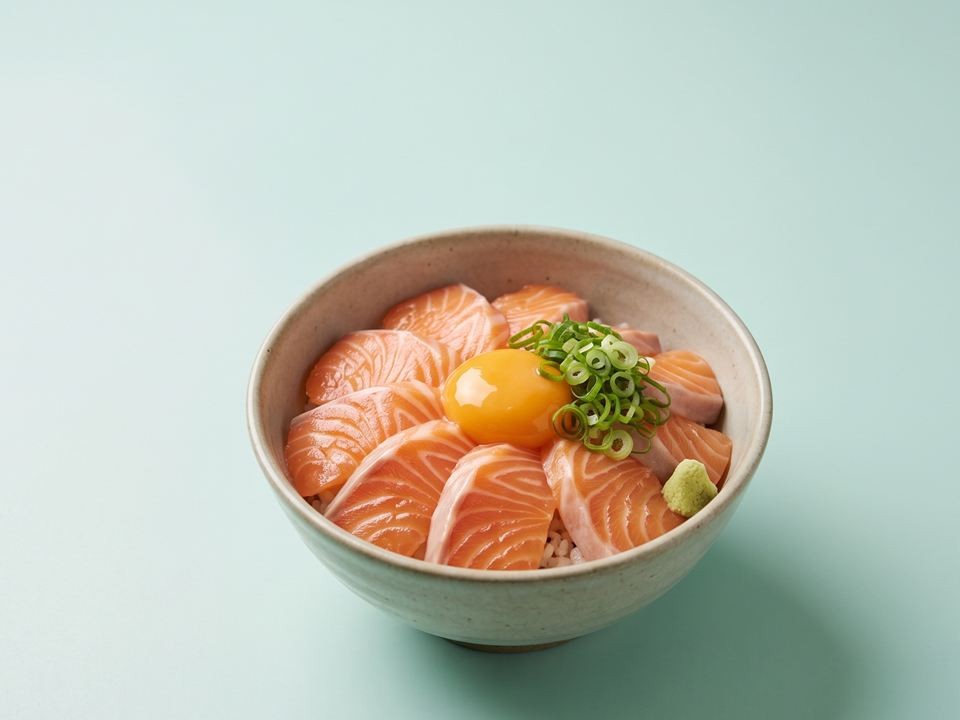
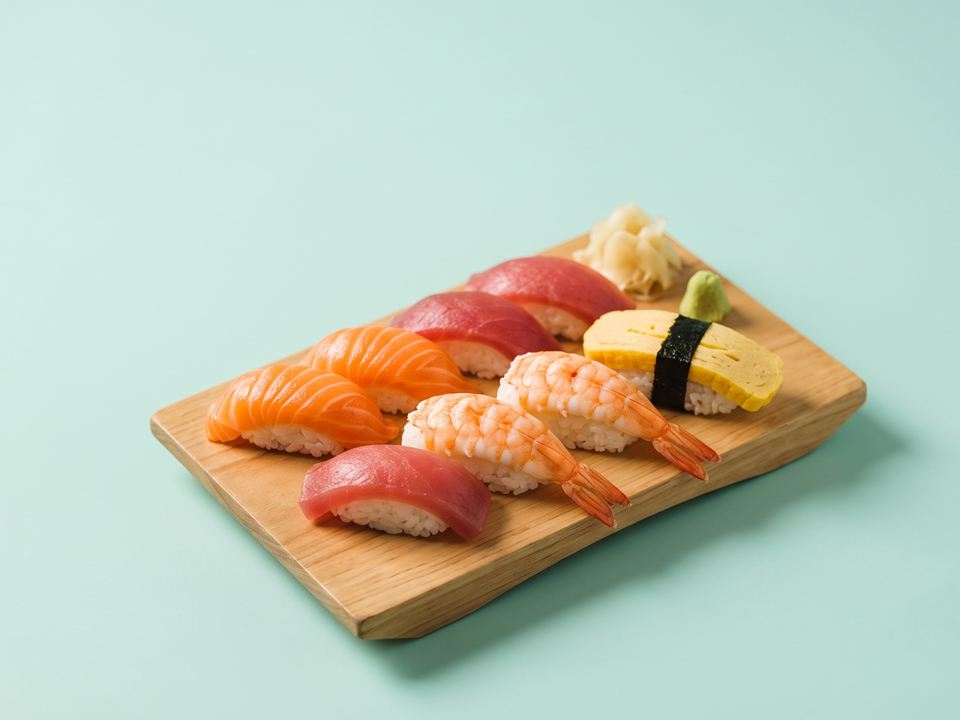
AI 예시 사진 19장 + 대표 메뉴 매칭, 로고 logo_final 색, 로고 정렬, 상대 경로
- 사진 추가: 삼겹살(kr-3) 족발(kr-4) 해물파전(kr-5) 냉면(kr-6) 피자(we-3) 샐러드(we-4) 치킨(etc-3), jp-2 → 모둠 초밥
- 매칭: 대표 메뉴(추천 메뉴 + 식당 이름)에 맞는 사진을 식당 종류와 상관없이 먼저 고르고, 없으면 종류별 사진 중 하나
  (치킨카레 → 카레, 그릴치킨 샐러드 → 샐러드, 돈가스김밥 → 김밥, 막국수 → 냉면, 훠궈 → 국물 요리 등)
- 로고: 팀 확정 logo_final 색으로 핀 주황 #E94102 (logo.svg · logo-512.png 다시 만듦)
- 헤더: 로고와 제목 간격 8 → 5px, '삼슐랭 가이드'를 1px 당겨 아래 줄과 시작선 맞춤
- images/ · vendor/ 경로를 상대 경로로 → index.html을 파일로 열어도 사진이 보임 (/api/config는 그대로)

diff --git a/index.html b/index.html
@@ -15,7 +15,7 @@
 <link rel="stylesheet" href="https://cdn.jsdelivr.net/gh/orioncactus/pretendard@v1.3.9/dist/web/variable/pretendardvariable-dynamic-subset.css">
 <!-- 앱 아이콘: 아래 로고(#i-logo)와 같은 그림을 스크립트가 채워 넣어요 -->
 <link rel="icon" id="favicon" type="image/svg+xml">
-<link rel="apple-touch-icon" href="/images/logo-512.png">
+<link rel="apple-touch-icon" href="images/logo-512.png">
 <style>
 /* ============================================================
    ① TOKENS — design.md 2장 그대로. 단일 라이트 테마(크림 바탕)로 고정.
@@ -271,8 +271,7 @@ a.btn{text-decoration:none}
    ============================================================ */
 :root{
   --ink:#37352F; --sun:#FFB600; --hl:#FFE08A; --peach:#FBEBDD; --butter:#FDF1D3; --sec:#C25E0A;
-  --font-display:var(--font-sans);
-  --color-text:var(--ink); --color-bg:#FFFBF6; --color-border:#EBE2D8;
+  --font-display:var(--font-sans);  --color-text:var(--ink); --color-bg:#FFFBF6; --color-border:#EBE2D8;
   --color-brand-600:#C8460A; --color-brand-700:#A3380A;
   --shadow-card:none; --shadow-pop:3px 3px 0 var(--ink);
 }
@@ -305,10 +304,11 @@ a.btn{text-decoration:none}
 .region-chip{border-color:#DDD2C7}
 
 /* 로고 */
-.logo{display:inline-flex;align-items:center;gap:8px;font:800 20px/1 var(--font-display);letter-spacing:-.03em;color:var(--ink);text-decoration:none;background:none;border:0;padding:0}
+.logo{display:inline-flex;align-items:center;gap:5px;font:800 20px/1 var(--font-display);letter-spacing:-.03em;color:var(--ink);text-decoration:none;background:none;border:0;padding:0}
 .logo svg{width:40px;height:40px;flex:none}
 .logo em{font-style:normal;color:#D04A02}
 .logo__txt{display:flex;flex-direction:column;gap:3px}
+.logo__txt > span:first-child{margin-left:-1px} /* 큰 글씨 '삼'의 첫 획이 비스듬해 오른쪽으로 보여서, 아래 줄과 시작선을 맞춰요 */
 .logo small{font:600 11px/1 var(--font-sans);color:var(--color-text-sub);letter-spacing:.02em}
 
 /* 홈: 바로가기 타일 */
@@ -407,11 +407,11 @@ body.has-nav .toast{bottom:calc(84px + env(safe-area-inset-bottom,0px))}
 <symbol id="i-check-circle" viewBox="0 0 24 24"><circle cx="12" cy="12" r="10"/><path d="m9 12 2 2 4-4"/></symbol>
 <symbol id="i-alert-circle" viewBox="0 0 24 24"><circle cx="12" cy="12" r="10"/><path d="M12 8v4M12 16h.01"/></symbol>
 <symbol id="i-info" viewBox="0 0 24 24"><circle cx="12" cy="12" r="10"/><path d="M12 16v-4M12 8h.01"/></symbol>
-<!-- 삼슐랭 로고 (10/07 팀 시안): 별이 든 지도 핀. 핀 주황 = 삼일PwC 대표 주황 #D04A02 (시안 원본 #E94102에서 맞춤)
+<!-- 삼슐랭 로고 (10/07 팀 확정 logo_final): 별이 든 지도 핀. 핀 주황 #E94102 · 테두리 #451003 · 별 #FED20D
      원본 파일: images/logo.svg (홈 화면 아이콘 PNG: images/logo-512.png). 같은 그림을 탭 아이콘(favicon)에도 써요 -->
 <symbol id="i-logo" viewBox="5 4 54 54">
   <g stroke="#451003" stroke-linejoin="round">
-    <path d="M32 55C24 45.5 14.6 34 14.6 25.2a17.4 17.4 0 0 1 34.8 0c0 8.8-9.4 20.3-17.4 29.8z" fill="#D04A02" stroke-width="2.3"/>
+    <path d="M32 55C24 45.5 14.6 34 14.6 25.2a17.4 17.4 0 0 1 34.8 0c0 8.8-9.4 20.3-17.4 29.8z" fill="#E94102" stroke-width="2.3"/>
     <circle cx="32" cy="25.5" r="10.8" fill="#FFFDF8" stroke-width="2"/>
     <polygon transform="translate(32 26.1) scale(1.46)" points="0,-5 1.32,-1.82 4.76,-1.55 2.14,.7 2.94,4.05 0,2.25 -2.94,4.05 -2.14,.7 -4.76,-1.55 -1.32,-1.82" fill="#FED20D" stroke-width="1.25"/>
   </g>
@@ -433,7 +433,7 @@ body.has-nav .toast{bottom:calc(84px + env(safe-area-inset-bottom,0px))}
 <div class="toast" id="toast" role="status" aria-live="polite"><svg class="ico ico--16"><use href="#i-check-circle"/></svg><span id="toast-msg"></span></div>
 <p class="sr-only" id="live" aria-live="polite"></p>
 
-<script src="/vendor/supabase.js"></script>
+<script src="vendor/supabase.js"></script>
 <script>
 "use strict";
 /* ============================================================
@@ -668,23 +668,45 @@ function shrinkPhoto(file, sizes){
     img.src = url;
   });
 }
-/* 사진이 없을 때: 식당 종류별 AI 생성 예시 사진(images/food).
-   메뉴·이름에 맞는 사진을 먼저 고르고, 없으면 그 종류 사진 중 하나(같은 식당은 늘 같은 사진).
-   사진을 더 만들면 파일을 넣고 아래 목록에 [파일 이름, 맞는 메뉴]만 추가하면 돼요 */
+/* 사진이 없을 때: AI 생성 예시 사진(images/food, 19장).
+   ① 대표 메뉴(추천 메뉴 + 식당 이름)에 맞는 사진을 식당 종류와 상관없이 먼저 골라요 — 위에서부터 먼저 맞는 것
+   ② 맞는 게 없으면 식당 종류의 사진 중 하나(같은 식당은 늘 같은 사진)
+   사진을 더 만들면 파일을 넣고 DISH_PHOTOS에 [맞는 메뉴, 파일 이름] 한 줄, CAT_PHOTOS에 파일 이름을 추가하면 돼요 */
+const DISH_PHOTOS = [
+  /* 겹치기 쉬운 것을 먼저: 치킨카레 → 카레, 그릴치킨 샐러드 → 샐러드, 돈가스김밥 → 김밥, 막국수 → 냉면, 순대국밥 → 국밥 */
+  [/카레|커리/, "etc-1"],                                      // 카레
+  [/샐러드|포케|브런치/, "we-4"],                               // 샐러드
+  [/쌀국수|분짜|반미/, "etc-2"],                                // 쌀국수
+  [/냉면|막국수|밀면/, "kr-6"],                                 // 냉면
+  [/파전|전집|모둠전|육전|빈대떡|부침개/, "kr-5"],              // 해물파전
+  [/족발|보쌈/, "kr-4"],                                        // 족발
+  [/삼겹|목살|오겹|갈비|숯불|고깃집|스테이크|꼬치|장어/, "kr-3"], // 삼겹살(구운 고기)
+  [/훠궈|샤브|전골/, "kr-1"],                                   // 국물 요리 → 국밥
+  [/치킨|통닭|닭강정/, "etc-3"],                                // 치킨
+  [/피자/, "we-3"],                                             // 피자
+  [/버거/, "we-2"],                                             // 버거
+  [/파스타|스파게티|리조또/, "we-1"],                           // 파스타
+  [/스시|초밥|오마카세|회덮밥|생선회|물회|연어/, "jp-2"],       // 모둠 초밥
+  [/김밥|라면|컵밥/, "sn-2"],                                   // 김밥·라면
+  [/카츠|돈가스|돈까스/, "jp-1"],                               // 돈가스
+  [/국밥|해장국|순두부|감자탕|김치찜|닭한마리|칼국수|곰탕|설렁탕|찌개/, "kr-1"], // 국밥
+  [/떡볶이|라볶이|튀김|어묵/, "sn-1"],                          // 떡볶이
+  [/딤섬|만두|교자|샤오롱/, "cn-2"],                            // 딤섬
+  [/짜장|짬뽕|마라|탕수육|볶음밥/, "cn-1"],                     // 짜장면
+  [/제육|백반|정식|한상|쌈밥|비빔밥|불고기|도시락/, "kr-2"],    // 제육 백반
+];
 const CAT_PHOTOS = {
-  한식:[["kr-1", /국밥|해장국|탕|순두부|찌개|김치찜|닭한마리|칼국수/], ["kr-2", /제육|볶음|백반|정식|한상|갈비|쌈밥|비빔밥/]],
-  중식:[["cn-1", /짜장|짬뽕|면|마라|볶음밥|코스/], ["cn-2", /딤섬|만두|양꼬치/]],
-  일식:[["jp-2", /연어|회|덮밥|오마카세|초밥|스시/], ["jp-1", /카츠|돈가스|돈까스|정식|우동|라멘|꼬치/]],
-  양식:[["we-1", /파스타|코스|브런치|샐러드/], ["we-2", /버거|스테이크|피자/]],
-  분식:[["sn-1", /떡볶이|라볶이|튀김/], ["sn-2", /김밥|라면|컵밥/]],
-  기타:[["etc-1", /카레|커리|도시락/], ["etc-2", /쌀국수|국수|훠궈|반미/]],
+  한식:["kr-1","kr-2","kr-3","kr-4","kr-5","kr-6"], 중식:["cn-1","cn-2"], 일식:["jp-1","jp-2"],
+  양식:["we-1","we-2","we-3","we-4"], 분식:["sn-1","sn-2"], 기타:["etc-1","etc-2","etc-3"],
 };
 const hash = s => [...String(s)].reduce((h, c) => (Math.imul(h, 31) + c.codePointAt(0)) >>> 0, 7);
 /* 예시 사진: 큰 사진 images/food/*.jpg (약 60KB), 썸네일 images/food/thumb/*.jpg (약 10KB) */
 function samplePhoto(r, thumb=false){
-  const l = CAT_PHOTOS[r.c] || CAT_PHOTOS["기타"], text = `${r.m || ""} ${r.n || ""}`;
-  const hit = l.find(([, re]) => re.test(text)) || l[hash(r.id) % l.length];
-  return `/images/food/${thumb ? "thumb/" : ""}${hit[0]}.jpg`;
+  const text = `${r.m || ""} ${String(r.n || "").replace(/\[가상\]/g, "")}`;
+  const dish = DISH_PHOTOS.find(([re]) => re.test(text));
+  const l = CAT_PHOTOS[r.c] || CAT_PHOTOS["기타"];
+  const file = dish ? dish[1] : l[hash(r.id) % l.length];
+  return `images/food/${thumb ? "thumb/" : ""}${file}.jpg`;
 }
 /* kind: "rank"(TOP3 썸네일) | "list"(검색 목록 썸네일) | "hero"(큰 사진). style 은 큰 사진의 여백용.
    썸네일 칸에는 썸네일 파일만 불러와요. 썸네일이 없으면(예전에 올린 사진 등) 큰 사진으로 한 번만 대신해요 */
